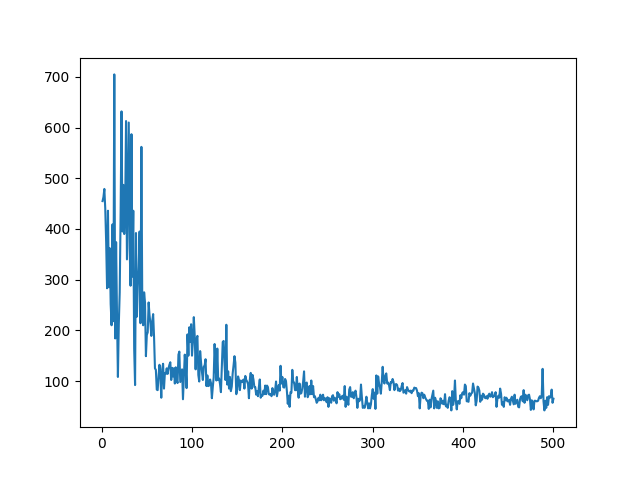
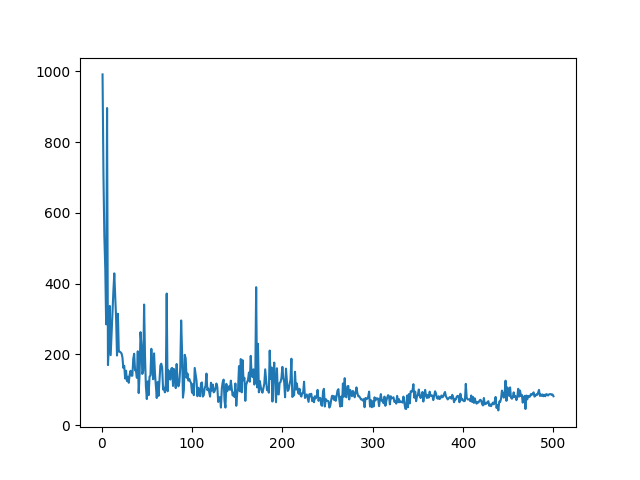
transmitting_model

diff --git a/environments/config/transmission_model_v1.py b/environments/config/transmission_model_v1.py
@@ -1,0 +1,64 @@
+import numpy as np
+import math
+import sys
+
+class Phi_dif_Model():
+    def __init__(self, x_limit, y_limit, tower_position, rounding = 0, time_ratio=1, B=0.5, height=0.5, K=8, N=3, Phi_list=np.array([5,4,3])) -> None:
+        self.time_ratio = time_ratio
+        self.B = B
+        self.height = height
+        self.K = K
+        self.N = N
+        self.Phi_list = Phi_list
+
+        self.x_limit = x_limit
+        self.y_limit = y_limit
+        self.precision = 10 ** -rounding
+        self.rounding = rounding
+
+        self.tower_position = tower_position
+        self.signal_map = self.init_signal_map()
+
+    def update_dv_status(self, agent_position, dv_collected, dv_required):
+        x = round(agent_position[0], self.rounding)
+        y = round(agent_position[1], self.rounding)
+        if (x, y) not in self.signal_map:
+            sys.exit("signal_map not initialized correctly")
+
+        transmitting_rate_list = self.signal_map[(x, y)]
+        dv_collected_updated = np.array(dv_collected) + np.array(transmitting_rate_list*self.time_ratio)
+        dv_collected_updated = np.minimum(dv_collected_updated, dv_required)
+
+        transmitting_rate = dv_collected_updated - dv_collected
+
+        return dv_collected_updated,  transmitting_rate
+        
+    
+    def init_signal_map(self):
+        signal_map = {}
+        x_position = np.arange(0, self.x_limit, self.precision, dtype=float)
+        y_position = np.arange(0, self.y_limit, self.precision, dtype=float)
+
+        for x in x_position:
+            for y in y_position:
+                rate_at_XY = []
+                agent_position = [x, y]
+                for i in range(len(self.tower_position)):
+                    tower = self.tower_position[i]
+                    rate_at_XY_t = self.get_transmission_rate_signal(agent_position=agent_position, tower_location=tower, 
+                                                                    phi=self.Phi_list[i], b=self.B, height=self.height,
+                                                                    k=self.K, n=self.N)
+                    rate_at_XY.append(rate_at_XY_t)
+
+                signal_map[(x, y)] = rate_at_XY
+
+        return signal_map
+
+    def get_transmission_rate_signal(self, agent_position, tower_location, phi, height, b, k, n):
+        agent_position = np.array(agent_position)
+        tower_location = np.array(tower_location)
+
+        relative_distance = np.linalg.norm(agent_position - tower_location)
+        data_transmitting_rate = phi * b * math.log2(1 + k / (n * (pow(relative_distance, 2) + pow(height, 2))))
+
+        return data_transmitting_rate

diff --git a/environments/config/single_discrete_v1.py b/environments/config/single_discrete_v1.py
@@ -1,8 +1,9 @@
 import numpy as np
 import random
 from .transmission_model import Phi_dif_transmitting_speed
+from .transmission_model_v1 import Phi_dif_Model
 from utils.buffer import Info
-from numpy import linalg as LNG 
+from numpy import linalg as LNG
 
 class Task():
     def __init__(self, x_limit, y_limit, tower_location) -> None:
@@ -10,6 +11,7 @@ class Task():
         self.y_limit = y_limit
         self.tower_location = tower_location
         self.num_tower = len(tower_location)
+        self.transmitting_model = Phi_dif_Model(x_limit=self.x_limit, y_limit=self.y_limit, tower_position=self.tower_location)
 
     def set_mission(self, start_at, arrival_at, dv_required) -> None:
         self.dv_required = dv_required
@@ -88,7 +90,8 @@ class Agent():
         self.status_tracker.update_position(next_position)
         
 
-        data_volume_collected, data_transmitting_rate_list = Phi_dif_transmitting_speed(self.status_tracker.current_position, tower_location, dv_collected, dv_required)
+        # data_volume_collected, data_transmitting_rate_list = Phi_dif_transmitting_speed(self.status_tracker.current_position, tower_location, dv_collected, dv_required)
+        data_volume_collected, data_transmitting_rate_list = self.status_tracker.transmitting_model.update_dv_status(self.status_tracker.current_position, dv_collected, dv_required)
 
         data_volume_left = np.array(dv_required) - np.array(data_volume_collected)
 
